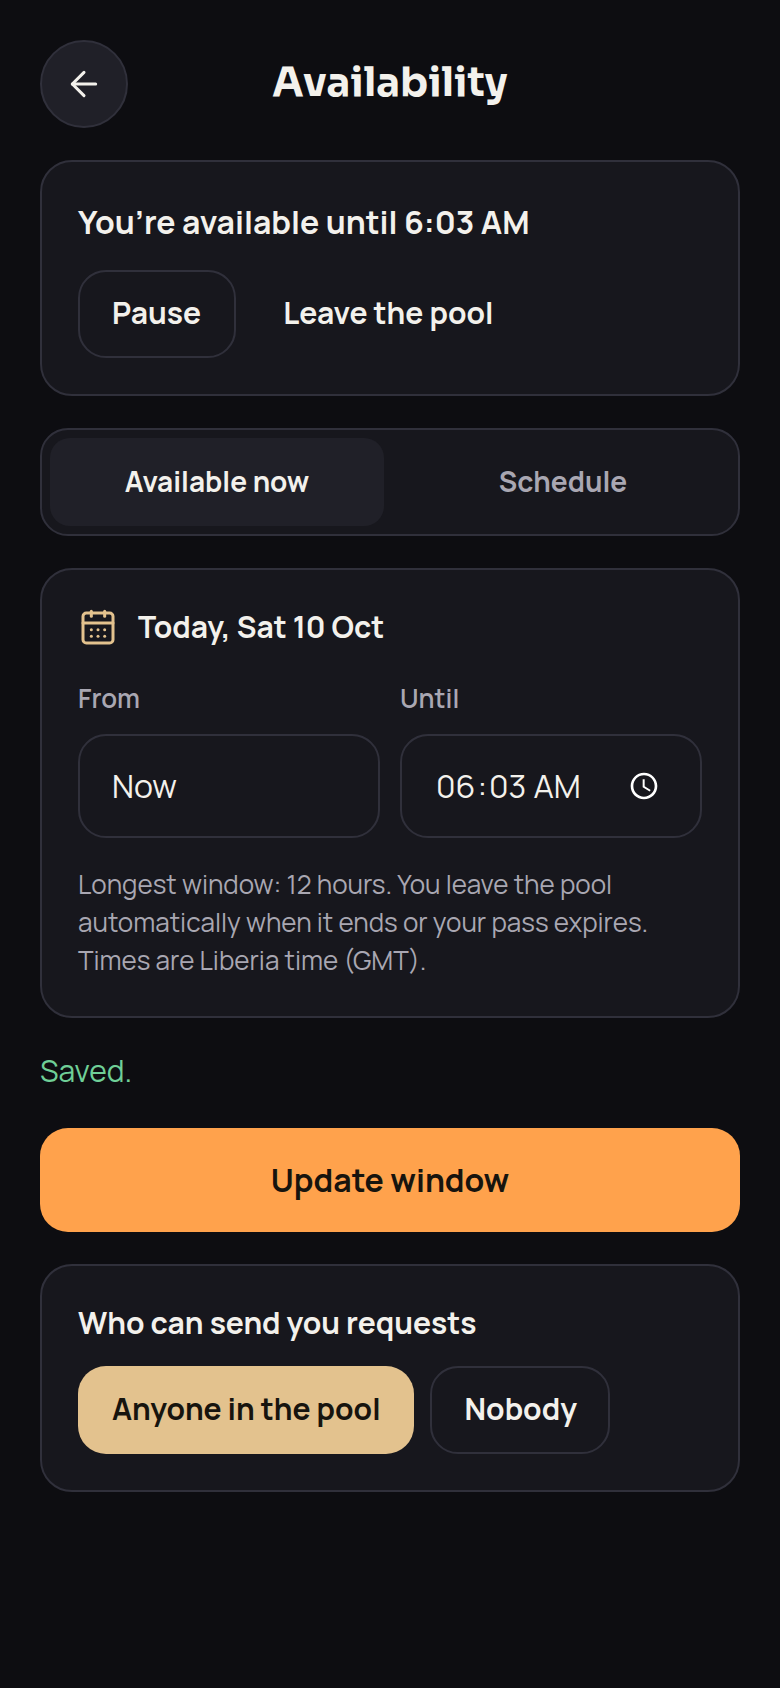
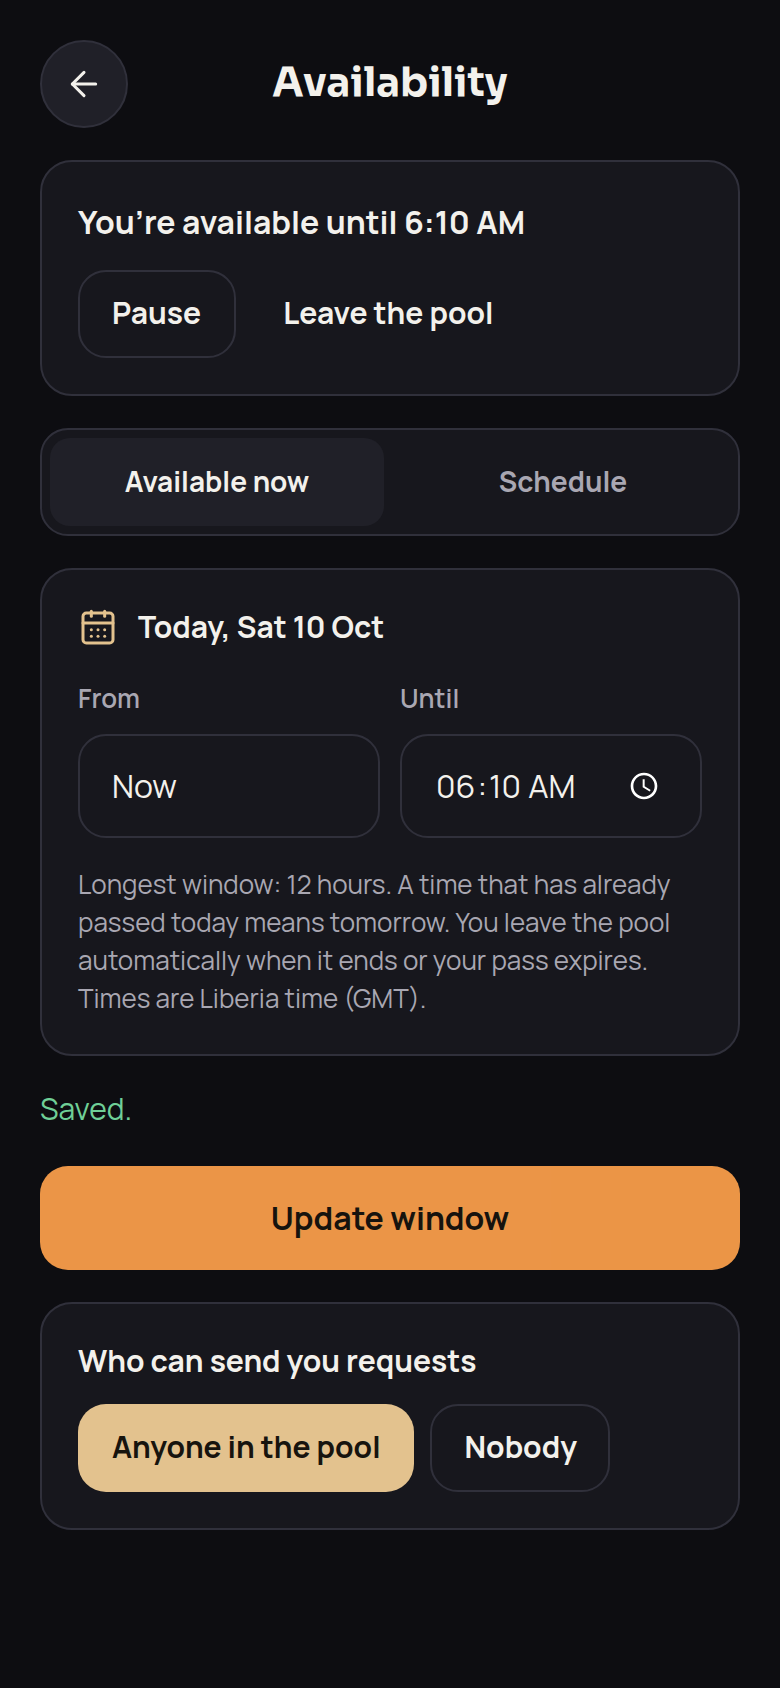
Phase 8: fix self-audit round 1
Tidy keeps windows of briefly ineligible members; short-window signal measures time actually spent
(live-window edits extend in place, leaving early counts); windows starting after the pass ends are
refused; window changes rate-limited (T-19 setting); locks on pause/leave; Home card states; Resume
hidden when ineligible; clock-time edge; more tests (BR-15 rejected, report hide, paused ended).

Claude-Session: https://claude.ai/code/session_01RWv5U5Jeaj4LAzyACAoRM2

Changed region(s): [[0.0308, 0.4621, 0.9538, 0.8934], [0.5538, 0.1232, 0.6769, 0.154], [0.9231, 0.5853, 0.9538, 0.6161]]

diff --git a/app/(member)/casual/availability/page.tsx b/app/(member)/casual/availability/page.tsx
@@ -76,7 +76,9 @@ export default async function AvailabilityPage() {
                 ? `Scheduled: ${formatWindowTime(a.startAt!)} – ${formatWindowTime(a.endAt!)}`
                 : a.inPool
                   ? `You’re available until ${formatWindowTime(a.endAt!)}`
-                  : `Your window runs until ${formatWindowTime(a.endAt!)}, but you’re not in the pool right now`}
+                  : a.permission === "NOBODY" && a.reasons.length === 0
+                    ? `Your window runs until ${formatWindowTime(a.endAt!)}, but with Nobody you’re hidden from the pool`
+                    : `Your window runs until ${formatWindowTime(a.endAt!)}, but you’re not in the pool right now`}
           </p>
           {a.status === "PAUSED" ? (
             <p className="text-[15px] text-muted-foreground">
@@ -84,11 +86,13 @@ export default async function AvailabilityPage() {
             </p>
           ) : null}
           <div className="flex flex-wrap gap-2">
-            <form action={a.status === "PAUSED" ? resumeAvailability : pauseAvailability}>
-              <Button type="submit" variant="outline" size="md">
-                {a.status === "PAUSED" ? "Resume" : "Pause"}
-              </Button>
-            </form>
+            {a.status === "PAUSED" && a.reasons.length > 0 ? null : (
+              <form action={a.status === "PAUSED" ? resumeAvailability : pauseAvailability}>
+                <Button type="submit" variant="outline" size="md">
+                  {a.status === "PAUSED" ? "Resume" : "Pause"}
+                </Button>
+              </form>
+            )}
             <form action={leaveAvailability}>
               <Button type="submit" variant="ghost" size="md">
                 Leave the pool

diff --git a/tests/unit/availability.test.ts b/tests/unit/availability.test.ts
@@ -6,7 +6,7 @@ const NOW = new Date("2026-10-10T18:00:00Z");
 const CAPS = { maxWindowHours: 12, maxLeadDays: 7 };
 const at = (h: number) => new Date(NOW.getTime() + h * 3_600_000);
 
-describe("availability windows (spec §12)", () => {
+describe("BR-17 / BR-18 availability windows (spec §12)", () => {
   it("reads datetime-local values as Liberia time (GMT) and writes them back", () => {
     expect(parseLiberiaLocal("2026-10-10T23:00")?.toISOString()).toBe("2026-10-10T23:00:00.000Z");
     expect(parseLiberiaLocal("10/10/2026 23:00")).toBeNull();
@@ -43,11 +43,13 @@ describe("availability windows (spec §12)", () => {
 });
 
 describe("Available now: until a clock time", () => {
-  it("BR-18: later today, or tomorrow once the time has passed", async () => {
+  it("BR-18: later today, or tomorrow once the time has passed; a time just passed is refused", async () => {
     const { endFromClockTime } = await import("@/lib/domain/availability");
     expect(endFromClockTime("23:00", NOW)?.toISOString()).toBe("2026-10-10T23:00:00.000Z");
     expect(endFromClockTime("02:00", NOW)?.toISOString()).toBe("2026-10-11T02:00:00.000Z");
-    expect(endFromClockTime("18:00", NOW)?.toISOString()).toBe("2026-10-11T18:00:00.000Z");
+    expect(endFromClockTime("17:00", NOW)?.toISOString()).toBe("2026-10-11T17:00:00.000Z");
+    expect(endFromClockTime("18:00", NOW)).toBeNull();
+    expect(endFromClockTime("17:57", NOW)).toBeNull();
     expect(endFromClockTime("25:00", NOW)).toBeNull();
     expect(endFromClockTime("", NOW)).toBeNull();
   });

diff --git a/app/(member)/home/page.tsx b/app/(member)/home/page.tsx
@@ -141,12 +141,18 @@ export default async function HomePage({ searchParams }: PageProps<"/home">) {
                 ? `Available until ${formatWindowTime(availability.endAt)}`
                 : availability.status === "PAUSED"
                   ? "Availability paused"
-                  : availability.status === "AVAILABLE" && availability.startAt
+                  : availability.scheduled && availability.startAt
                     ? `Scheduled from ${formatWindowTime(availability.startAt)}`
-                    : "You’re not available"}
+                    : availability.status === "AVAILABLE"
+                      ? "Not in the pool right now"
+                      : "You’re not available"}
             </span>
             <span className="text-[15px] text-muted-foreground">
-              {availability.inPool ? "You’re in the Available Now pool" : "Go available to appear in the pool"}
+              {availability.inPool
+                ? "You’re in the Available Now pool"
+                : availability.status === "UNAVAILABLE"
+                  ? "Go available to appear in the pool"
+                  : "See why on your availability screen"}
             </span>
           </span>
           <ChevronRight className="size-5 text-muted-foreground" aria-hidden />

diff --git a/tests/e2e/availability.mobile.spec.ts b/tests/e2e/availability.mobile.spec.ts
@@ -58,6 +58,15 @@ test("§12: go available now, pause, schedule, choose who can send requests, lea
   await page.getByRole("button", { name: "Resume" }).click();
   await expect(page.getByTestId("availability-status")).toContainText("You’re available until");
 
+  // §13: with Nobody, the member is hidden from the pool even inside a live window.
+  await page.getByRole("button", { name: "Nobody" }).click();
+  await expect(page.getByTestId("availability-status")).toContainText("with Nobody you’re hidden from the pool");
+  await page.goto("/home");
+  await expect(page.getByTestId("home-availability")).toContainText("Not in the pool right now");
+  await page.goto("/casual/availability");
+  await page.getByRole("button", { name: "Anyone in the pool" }).click();
+  await expect(page.getByTestId("availability-status")).toContainText("You’re available until");
+
   // Schedule replaces the current window (one active-or-scheduled window).
   await page.getByRole("button", { name: "Schedule" }).click();
   await page.getByLabel("From").fill(local(new Date(Date.now() + 2 * 3_600_000)));

diff --git a/lib/domain/availability.ts b/lib/domain/availability.ts
@@ -59,13 +59,15 @@ export function formatDayLabel(d: Date): string {
 
 /**
  * "Available now … until 11:00 PM": the next time that clock time comes round (later today, or
- * tomorrow if it has already passed), Liberia time.
+ * tomorrow if it has already passed), Liberia time. Null for a time that passed in the last 5 minutes.
  */
 export function endFromClockTime(value: string | null | undefined, now: Date): Date | null {
   const m = /^(\d{2}):(\d{2})$/.exec(value ?? "");
   if (!m || Number(m[1]) > 23 || Number(m[2]) > 59) return null;
   const end = new Date(now);
   end.setUTCHours(Number(m[1]), Number(m[2]), 0, 0);
+  // A time that passed only moments ago (the form was open a while) is a mistake, not "tomorrow".
+  if (end.getTime() <= now.getTime() && now.getTime() - end.getTime() <= 5 * 60_000) return null;
   if (end.getTime() <= now.getTime()) end.setUTCDate(end.getUTCDate() + 1);
   return end;
 }

diff --git a/lib/availability/actions.ts b/lib/availability/actions.ts
@@ -16,6 +16,8 @@ const MESSAGES: Record<string, string> = {
   START_IN_PAST: "Choose a start time that hasn’t passed.",
   END_BEFORE_START: "The end time must be after the start time.",
   WINDOW_TOO_LONG: "That window is longer than allowed. Choose an earlier end time.",
+  PASS_ENDS_FIRST: "Your pass ends before that window starts. Choose an earlier time or add time to your pass.",
+  TOO_MANY_CHANGES: "You’ve changed your availability a lot in the last hour. Try again later.",
   TOO_FAR_AHEAD: "That’s too far ahead. Choose a closer day.",
   NOT_ELIGIBLE: "You can’t go available right now.",
   NO_WINDOW: "You don’t have a window to pause.",

diff --git a/components/availability/availability-form.tsx b/components/availability/availability-form.tsx
@@ -101,6 +101,7 @@ function AvailabilityForm({
         </div>
         <p className="text-[13px] leading-[19px] text-muted-foreground">
           {maxWindowHours ? `Longest window: ${formatHours(maxWindowHours)}. ` : ""}
+          {mode === "now" ? "A time that has already passed today means tomorrow. " : ""}
           You leave the pool automatically when it ends or your pass expires. Times are Liberia time (GMT).
         </p>
       </div>

diff --git a/lib/availability/server.ts b/lib/availability/server.ts
@@ -70,6 +70,8 @@ const CODES = [
   "WINDOW_TOO_LONG",
   "TOO_FAR_AHEAD",
   "NO_WINDOW",
+  "PASS_ENDS_FIRST",
+  "TOO_MANY_CHANGES",
   "has no value",
 ] as const;
 export type AvailabilityError = (typeof CODES)[number] | "UNKNOWN";

diff --git a/docs/DECISIONS.md b/docs/DECISIONS.md
@@ -77,4 +77,5 @@ open item. Resolved items record the date and the reason. New items continue the
 | Q40   | Availability rules built: a new window replaces the current one; "Available now … until 11 PM" means the next 11 PM (tomorrow if already past); a schedule can't start in the past (5 minutes' slack); a window needs an active pass when it is set, and the member leaves the pool the moment the pass ends.                                                                                                                                                                                                                                                                                                                                       | Keep                                                     | Phase 8 sign-off    |
 | Q41   | Members who choose "Nobody" for requests are not in the Available Now pool at all (§13 "hidden, not shown greyed out"); their window is kept.                                                                                                                                                                                                                                                                                                                                                                                                                                                                                                       | Keep                                                     | Phase 8 sign-off    |
 | Q42   | The "frequent short windows" signal counts windows the member _set_ shorter than the threshold in 24 hours; ending or replacing a window early doesn't count.                                                                                                                                                                                                                                                                                                                                                                                                                                                                                       | Keep                                                     | Phase 8 sign-off    |
+| Q43   | OD-8's window cap is per window: a member may update their window (e.g. every evening, or extend it before it ends), so the cap limits a single stretch, not total time per day. A daily total would be a separate setting. Changes per hour are limited (`availability.max_changes_per_hour`, T-19).                                                                                                                                                                                                                                                                                                                                               | Keep per window                                          | Phase 8 sign-off    |
 | T-19  | Threshold and limit values (see `docs/progress/OWNER_TASKS.md`), incl. the OD-30 manual-extension cap                                                                                                                                                                                                                                                                                                                                                                                                                                                                                                                                               | Owner reviewing                                          | Per row             |

diff --git a/docs/progress/OWNER_TASKS.md b/docs/progress/OWNER_TASKS.md
@@ -249,6 +249,7 @@ Status key: `OPEN` · `DONE (verified by Claude)` · `DONE (confirmed by owner)`
 | `availability.max_window_hours`                                            | OD-8 (DEV-ONLY 12 in seed)            | 12 (spec)                                                                  | Phase 8   |
 | `availability.max_lead_days`                                               | OD-8                                  | 7 (spec)                                                                   | Phase 8   |
 | `availability.short_window_minutes` / `availability.short_windows_per_day` | "Frequent short windows" flag (§17)   | 30 min / 5 in 24 h (DEV-ONLY same in seed)                                 | Phase 8   |
+| `availability.max_changes_per_hour`                                        | Window changes per member per hour    | 30 (DEV-ONLY 30 in seed)                                                   | Phase 8   |
 | `requests.daily_cap`                                                       | OD-9                                  | — your call                                                                | Phase 9   |
 | `requests.decline_cooldown_days`                                           | OD-9                                  | — your call                                                                | Phase 9   |
 | `subscriptions.manual_extension_max_days`                                  | OD-30 cap on admin manual extension   | 7 days                                                                     | Phase 10  |

diff --git a/docs/sprints/SPRINT-08.md b/docs/sprints/SPRINT-08.md
@@ -26,4 +26,4 @@ The Available Now pool itself, requests and saved profiles (Phase 9); notificati
 
 ## Self-audit
 
-(in progress)
+- **Round 1** (0 HIGH, 4 MEDIUM, 5 LOW): the daily tidy cleared scheduled or paused windows of members only briefly ineligible (now only ended windows and banned, deleted or staff accounts — `is_in_pool()` keeps the others out meanwhile); leaving early evaded the short-window signal and editing a live window created false short windows (now measured by time actually spent, a live window's end is extended in place, a schedule changed before it starts doesn't count, and leaving runs the check); Home said "Scheduled from <past time>" for a live window outside the pool; a window starting after the pass ends was "saved" (now refused); Resume shown to ineligible members; locks on pause and leave; a time that passed moments ago no longer means tomorrow; window changes rate-limited (T-19 setting); Q43 records that the cap is per window. Tests added for a REJECTED verification (BR-15), the report auto-hide, paused windows that ended, the tidy keeping windows, the signal cases and the Home card with Nobody. Fixed with tests.
